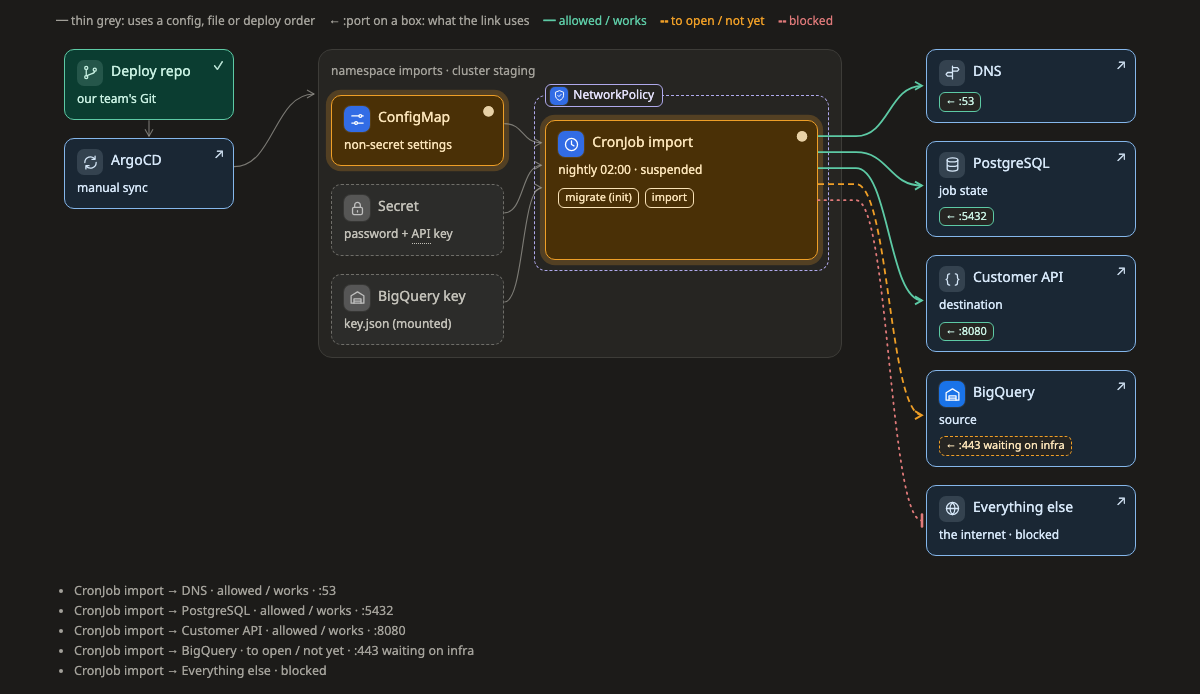
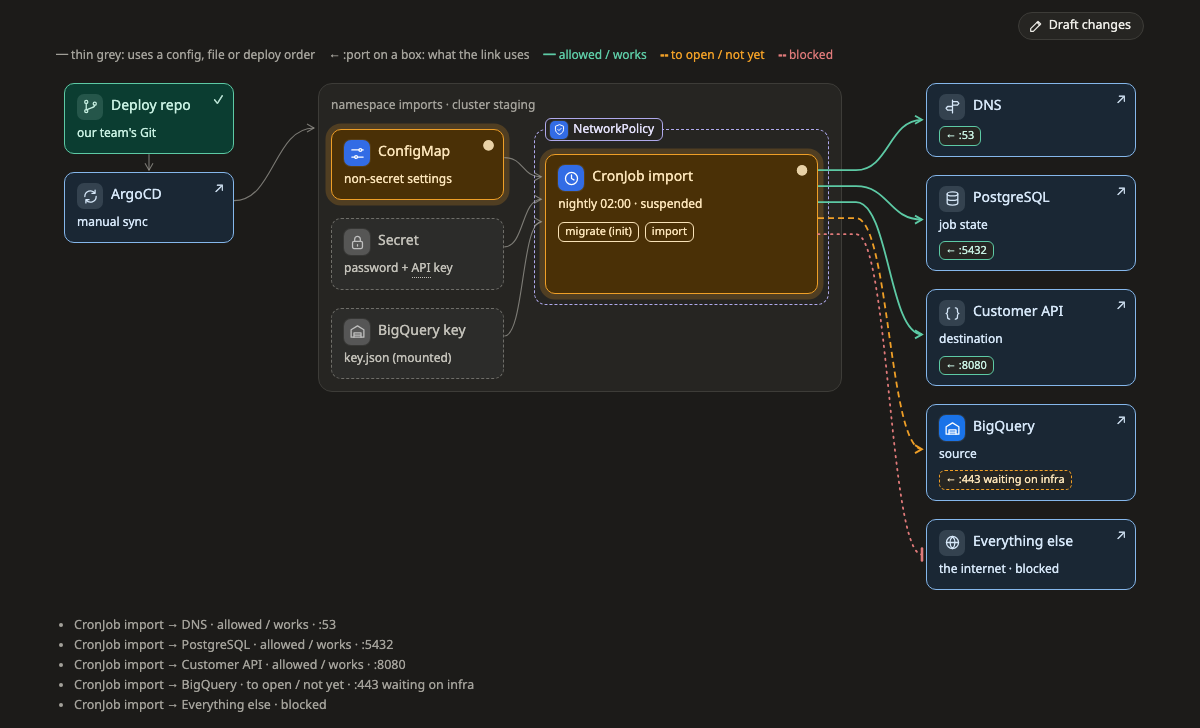
docs: new screenshots and GIFs, and a shot of draft mode

Changed region(s): [[0.0308, 0.0, 0.9558, 0.817], [0.0617, 0.8473, 0.37, 0.9683]]

diff --git a/README.md b/README.md
@@ -85,6 +85,8 @@ Type `/walkboard` and say what you want, or just ask in your own words:
 2. It writes the plan and gives you a link to a page on your machine.
 3. Click a box to see what it is, ask about it, or propose a change. 👉 and a purple bar mean it is your turn; **⋮** holds export, the theme and a short tour.
 4. To change a picture yourself, press **✎ Draft changes** above it: a toolbar appears at the bottom (keys V, B, Z, L, R, D; Escape leaves). Your changes are drawn dashed with a sign (+ ~ − ↦) and listed; **Ask the agent to review** sends them. Dragging a box outside draft mode only arranges the picture, unless you drop it into another zone.
+
+   <img src="docs/images/draft.png" alt="Draft mode on a map: a new RDS replica and a line drawn dashed with signs, the list of changes beside it and the toolbar at the bottom" width="720">
 5. Switch restating and commits under **Agent settings** at the top of the page. Switching does not wake the agent or cost tokens. Keep Claude Code open while you use the page: that is where the agent works.
 
 Boxes carry icons for what they are, with AWS, Google Cloud, Azure, Huawei Cloud, Kubernetes and on-prem parts in their own colours.
